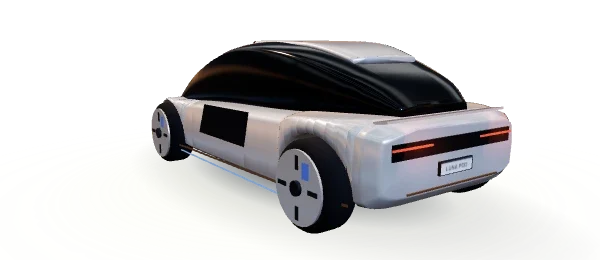
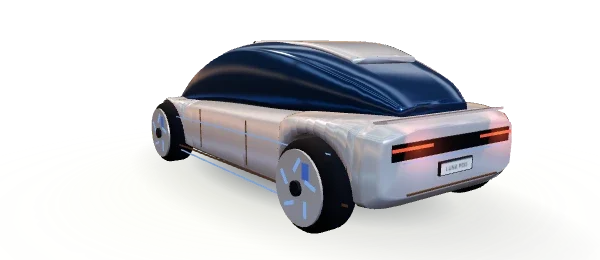
feat: 황혼 질주 스틸 웨지 · 루나 포드 다듬기 — 스틸 웨지: 비치는 유리 · 굵은 가로 빛줄과 번짐 · 아래 하늘색 빛줄 · 금속 하부 보호판 · 두툼한 각진 펜더 · 공기 구멍 휠 커버 · 짐칸 덮개 줄 · 뒤 빛 번짐, 루나 포드: 푸른 반사 유리 · 진주빛 · 옆 파란 빛 띠 · 구리 문 선 · 큰 고리 얼굴과 파란 빛 · 빛나는 홈 휠 커버 · 후미등 번짐, 캐시 ?v=38

diff --git a/web/games/embed/twilightrun/concepts.js b/web/games/embed/twilightrun/concepts.js
@@ -1,5 +1,5 @@
-import { TIRE_RADIUS } from './drive.js?v=37';
-import { bodyFinish, glassFinish } from './finishes.js?v=37';
+import { TIRE_RADIUS } from './drive.js?v=38';
+import { bodyFinish, glassFinish } from './finishes.js?v=38';
 
 // 차고에서 사는 새 차 6대. 기존 4종(매끈 · 투톤 지붕 · 칼날 LED)과 겹치지 않게 차마다 몸통 단면 · 유리 · 얼굴 조명 · 꼬리를 따로 짠다.
 // 모양은 운영자가 준 참고 사진 6장(2026-11-21)을 따라가고, 로고 · 엠블럼 · 글자는 넣지 않는다.
@@ -99,6 +99,7 @@ export function createConcepts(T, kit) {
     const brake = standard(look.brake, .39, .19);
     const rim = standard(look.rim, .24, .72);
     const accent = look.lip ? basic(look.lip) : rim;
+    const slotMat = look.slot ? (look.slotGlow ? basic(look.slot) : standard(look.slot, .3, .6)) : grille;
     const cover = look.disc ? new T.CylinderGeometry(look.coverR || .3, look.coverR || .3, .02, 28) : null;
     for (const s of [-1, 1]) for (const end of [-1, 1]) {
       const assembly = new T.Group(), rotating = new T.Group();
@@ -128,7 +129,7 @@ export function createConcepts(T, kit) {
         piece(rotating, cover, rim, s * .16, 0, 0).rotation.z = Math.PI / 2;
         for (let i = 0; i < look.spokes; i++) {
           const a = i * Math.PI * 2 / look.spokes;
-          bar(rotating, grille, s * .172, Math.cos(a) * .2, Math.sin(a) * .2, .01, .11, .035, a);
+          bar(rotating, slotMat, s * .172, Math.cos(a) * (look.slotR || .2), Math.sin(a) * (look.slotR || .2), .01, look.slotL || .11, look.slotW || .035, a + (look.slotTwist || 0));
         }
       } else if (look.y) {
         // Y 자 살 — 다리 둘이 바깥으로 벌어진다(살 사이로 큰 브레이크가 보이게)
@@ -633,20 +634,33 @@ export function createConcepts(T, kit) {
       const surface = wheelArches(main, axle, { front: 0, rear: 0, flare: 0, step: .3, lip: .02 });
       const tonneau = loft([[.7, w * .84, 1.18, 1.5, .62], [l, w * .94, 1.18, 1.26, .9]]);
       return {
-        surface, body: merge([loft(surface), tonneau]), flat: true, roofMat: 'paint', glass: '#14181d',
+        surface, body: merge([loft(surface), tonneau]), flat: true, roofMat: 'paint', glass: '#4b5968',
         cabin: loft([[-1.35, w * .9, 1.06, 1.14, .96], [-.3, w * .8, 1.16, 1.78, .58], [.75, w * .84, 1.18, 1.48, .62]]),
         roof: loft([[-.32, w * .46, 1.74, 1.8, .8], [.74, w * .52, 1.44, 1.5, .8]]),
         front: -1.0, rear: .7, look: { belt: [.52, 0], lower: '#1b1d1f', pin: 0 },
-        dress({ chassis, frontPanel, bumper, wing, flank, lamp }) {
+        dress({ chassis, frontPanel, bumper, wing, flank, lamp, paint }) {
           const black = standard('#1b1d1f', .75, .2);
-          box(frontPanel, led, 0, .975, -l - .075, w * 1.9, .022, .02);
-          glowSprite(frontPanel, '#e4f2ff', 0, .97, -l - .12, 1.6, .2);
-          box(frontPanel, black, 0, .52, -l - .05, w * 1.92, .2, .1);
+          const steel = standard('#d0d5da', .22, .95);
+          // 앞: 가로 빛줄을 굵고 밝게(빛 번짐 여럿) · 아래 두 번째 빛줄 · 각진 하부 보호판 · 프렁크 틈
+          box(frontPanel, led, 0, .975, -l - .075, w * 1.92, .03, .02);
+          for (let k = -2; k <= 2; k++) glowSprite(frontPanel, '#e4f2ff', k * w * .42, .975, -l - .12, .7, .32);
+          box(frontPanel, black, 0, .5, -l - .04, w * 1.92, .14, .1);
+          box(frontPanel, basic('#9fd8ff'), 0, .58, -l - .095, w * 1.5, .01, .012);
+          bar(frontPanel, steel, 0, .4, -l + .1, w * 1.3, .02, .5, .25);
+          box(chassis, black, 0, 1.065, -1.75, w * 1.7, .004, .012);
+          // 짐칸 덮개 줄 · 뒷문 틈 · 뒤 빛줄 번짐
+          for (let k = 0; k < 6; k++) box(chassis, black, 0, lerp(1.47, 1.29, k / 5) + .004, lerp(.85, l - .1, k / 5), w * 1.6, .004, .014);
+          box(bumper, black, 0, 1.0, l + .015, w * 1.8, .004, .01);
+          for (let k = -2; k <= 2; k++) glowSprite(bumper, '#ff3a26', k * w * .42, 1.2, l + .06, .55, .3);
+          box(chassis, basic('#9fd8ff'), 0, 1.79, -.36, w * .8, .012, .02);
           for (const s of [-1, 1]) {
             for (const zc of [-axle, axle]) {
+              // 각진 펜더 — 바깥으로 비스듬히 나온 두툼한 판
               const pts = [0, .28, .72, 1].map(t => [s * (w + .015), TIRE_RADIUS + Math.sin(Math.PI * t) * .56, zc + Math.cos(Math.PI * t) * .62]);
-              ribbon(flank[s], black, pts, pts.map(([x, y, z], i) => [x, y + (i === 0 || i === 3 ? 0 : .1), z + (i === 0 ? .1 : i === 3 ? -.1 : 0)]));
+              ribbon(flank[s], black, pts, pts.map(([x, y, z], i) => [x + s * .07, y + (i === 0 || i === 3 ? 0 : .14), z + (i === 0 ? .14 : i === 3 ? -.14 : 0)]));
             }
+            box(chassis, steel, s * w * 1.02, 1.3, -.92, .06, .03, .1);
+            box(flank[s], basic('#9fd8ff'), s * (w + .008), .45, 0, .006, .008, 2 * axle - 1.3);
             for (const z of [-.42, .45]) box(flank[s], black, s * (w + .006), .85, z, .008, .7, .01);
             box(flank[s], black, s * w * 1.0, .43, 0, .1, .05, 2.2);
             box(chassis, black, s * w * .96, 1.28, -.95, .05, .1, .14);
@@ -655,7 +669,7 @@ export function createConcepts(T, kit) {
           box(bumper, black, 0, .52, l + .03, w * 1.9, .2, .08);
           return { plateY: .82, tail: [.8, 1.2], head: [.7, .97, .05] };
         },
-        wheel: { brake: '#333', rim: '#1c1d1f', spokes: 6, disc: true, tread: true },
+        wheel: { brake: '#333', rim: '#2a2c30', spokes: 6, disc: true, tread: true, slot: '#8d949c', slotR: .17, slotL: .15, slotW: .06, slotTwist: .5, nut: '#9fd8ff' },
       };
     },
     // 9 루나 포드 — 미래형 전기 콘셉트(운영자 참고 사진): 하얀 한 덩어리 몸, 앞바퀴 위까지 내려온 큰 유리, 가운데 빛나는 고리 얼굴, 구리색 아래 테, 빛나는 휠 커버
@@ -665,34 +679,41 @@ export function createConcepts(T, kit) {
       const surface = wheelArches(main, axle, { front: .01, rear: .01, flare: .04, lip: .02 });
       const bubble = [[-1.62, w * .76, .7, .78, .9], [-1.0, w * .8, .76, 1.18, .72], [-.2, w * .8, .8, 1.46, .66], [.7, w * .76, .82, 1.44, .66], [1.5, w * .6, .84, 1.2, .72], [l - .2, w * .4, .86, .98, .8]];
       return {
-        surface, body: loft(surface, true), glass: '#121820', roofMat: 'paint', glow: '#5a8cff',
+        surface, body: loft(surface, true), glass: '#3e5f88', roofMat: 'paint', glow: '#5a8cff',
         cabin: loft(densify(bubble), true),
         roof: loft(densify([[-.15, w * .5, 1.43, 1.485, .8], [.75, w * .46, 1.41, 1.465, .8], [1.3, w * .38, 1.28, 1.34, .8]]), true),
-        front: -1.0, rear: 1.0, look: { pin: 0 }, paint: { iridescence: .3, roughness: .2 },
+        front: -1.0, rear: 1.0, look: { pin: 0 }, paint: { iridescence: .55, roughness: .16, clearcoat: 1, clearcoatRoughness: .04 },
         dress({ chassis, frontPanel, bumper, wing, flank, lamp, paint }) {
           const halo = basic('#eaf4ff');
           const copper = standard('#c08a5a', .25, .85);
           const blue = basic('#5a8cff');
-          piece(frontPanel, new T.TorusGeometry(.14, .014, 8, 40), halo, 0, .42, -l - .115);
+          piece(frontPanel, new T.TorusGeometry(.16, .018, 8, 40), halo, 0, .42, -l - .115);
+          piece(frontPanel, new T.CircleGeometry(.05, 24), blue, 0, .42, -l - .12).rotation.y = Math.PI;
+          box(frontPanel, blue, 0, .27, -l - .09, w * .9, .01, .012);
           glowSprite(frontPanel, '#cfe4ff', 0, .42, -l - .16, .55, .45);
           polyline(frontPanel, copper, [[-w * .66, .22, -l - .02], [-w * .3, .2, -l - .1], [w * .3, .2, -l - .1], [w * .66, .22, -l - .02]], .02);
           for (const s of [-1, 1]) {
             bar(frontPanel, halo, s * w * .66, .42, -l - .02, .012, .2, .012, 0, 0, s * .25);
             sideLine(flank[s], copper, s, z => at(surface, z, 1) + .012, -l + .25, .24, l - .2, .3, .022);
-            panel(flank[s], standard('#1a2230', .1, .7), [[s * (w * .965), .5, -.55], [s * (w * .965), .82, -.4], [s * (w * .965), .84, .55], [s * (w * .965), .5, .45]]);
+            // 몸 옆 파란 빛 띠 · 문 구리 선
+            sideLine(flank[s], blue, s, z => at(surface, z, 1) + .014, -l + .4, .58, l - .35, .66, .012, 16);
+            for (const z of [-.5, .5]) box(flank[s], copper, s * (at(surface, z, 1) + .01), .55, z, .006, .42, .01);
             glowSprite(chassis, '#3a6bff', s * w * .3, 1.0, -.1, .9, .35);
             for (const zc of [-axle, axle]) {
               const ring = piece(flank[s], new T.TorusGeometry(.2, .01, 6, 30), blue, s * (w + .03), TIRE_RADIUS, zc);
               ring.rotation.y = Math.PI / 2;
             }
-            box(bumper, lamp, s * w * .5, .72, l + .02, w * .42, .016, .012);
+            box(bumper, lamp, s * w * .5, .72, l + .02, w * .42, .022, .012);
+            glowSprite(bumper, '#ff3a26', s * w * .5, .72, l + .06, .6, .3);
+            piece(frontPanel, new T.TorusGeometry(.04, .008, 6, 18), blue, s * w * .62, .3, -l - .06);
           }
           box(bumper, standard('#121820', .2, .6), 0, .7, l + .004, w * 1.4, .12, .02);
           bar(wing, paint, 0, .9, l - .12, w * 1.4, .02, .14, -.15);
           box(bumper, copper, 0, .38, l + .02, w * 1.1, .015, .012);
+          box(bumper, blue, 0, .62, l + .02, w * 1.2, .008, .012);
           return { plateY: .52, tail: [.5, .72], head: [0, .42, .08] };
         },
-        wheel: { brake: '#5a8cff', rim: '#f2f2f0', spokes: 4, disc: true, lip: '#5a8cff' },
+        wheel: { brake: '#5a8cff', rim: '#f2f2f0', spokes: 5, disc: true, lip: '#5a8cff', slot: '#5a8cff', slotGlow: true, slotR: .18, slotL: .13, slotW: .03, slotTwist: .6, nut: '#c08a5a' },
       };
     },
     // 6 헥사 팽 — 라임 하이퍼카: 아주 뾰족한 코, 빛나는 가는 눈매, 앞은 낮고 뒤로 올라가는 검은 아래 몸, 큰 옆 흡기구, 꼬리 지느러미, 육각 꼬리등

diff --git a/web/games/embed/twilightrun/game.js b/web/games/embed/twilightrun/game.js
@@ -1,10 +1,10 @@
-import { advanceWreck, callRest, cars, carStats, clamp, courses, createRun, damageStage, eatFood, foods, leaveRest, MAX_HEALTH, modes, nextRest, carCondition, FUEL_FREE, fuelRate, pumpFuel, serviceCar, shopItems, useShopItem, servicePrice, services, REST_SIGN, restNames, reward, routeMode, SCORE_LIMIT, sectionIndex, step } from './drive.js?v=37';
-import { createScene } from './scene.js?v=37';
-import { impactDuration } from './impact.js?v=37';
-import { assetRoot } from './world.js?v=37';
-import { requestYield } from './traffic.js?v=37';
-import { createShowroom } from './showroom.js?v=37';
-import { dayProgress, dayTime, weatherAt, weatherNames } from './daytime.js?v=37';
+import { advanceWreck, callRest, cars, carStats, clamp, courses, createRun, damageStage, eatFood, foods, leaveRest, MAX_HEALTH, modes, nextRest, carCondition, FUEL_FREE, fuelRate, pumpFuel, serviceCar, shopItems, useShopItem, servicePrice, services, REST_SIGN, restNames, reward, routeMode, SCORE_LIMIT, sectionIndex, step } from './drive.js?v=38';
+import { createScene } from './scene.js?v=38';
+import { impactDuration } from './impact.js?v=38';
+import { assetRoot } from './world.js?v=38';
+import { requestYield } from './traffic.js?v=38';
+import { createShowroom } from './showroom.js?v=38';
+import { dayProgress, dayTime, weatherAt, weatherNames } from './daytime.js?v=38';
 
 const $ = id => document.getElementById(id);
 const stage = $('road');
@@ -220,7 +220,7 @@ setOptions('course', courses);
 setOptions('mode', modes);
 
 const carOptions = $('car-options');
-const carPicture = car => `${assetRoot}garage/${car.shape}.webp?v=37`;
+const carPicture = car => `${assetRoot}garage/${car.shape}.webp?v=38`;
 // 차 단추에 마우스를 올리면(키보드는 포커스, 터치는 누를 때 잠깐) 주행 때와 같은 3D 모델을 패널 옆에 크게 띄운다
 const carStage = $('car-stage');
 const showroom = createShowroom(carStage.querySelector('canvas'), cars,

diff --git a/web/games/embed/twilightrun/scene.js b/web/games/embed/twilightrun/scene.js
@@ -1,9 +1,9 @@
-import { clamp, damageStage as wearStage, frontWheelAngle, PANEL_BREAK, roadSlope, roadX, roadY, TIRE_RADIUS, trackLook } from './drive.js?v=37';
-import { createFallback } from './scene-fallback.js?v=37';
-import { createCarModels } from './models.js?v=37';
-import { createImpactFx, impactMotion } from './impact.js?v=37';
-import { dayProgress, dayTime, weatherAt } from './daytime.js?v=37';
-import { assetRoot, atmospheres, createWorld, glowMap, random } from './world.js?v=37';
+import { clamp, damageStage as wearStage, frontWheelAngle, PANEL_BREAK, roadSlope, roadX, roadY, TIRE_RADIUS, trackLook } from './drive.js?v=38';
+import { createFallback } from './scene-fallback.js?v=38';
+import { createCarModels } from './models.js?v=38';
+import { createImpactFx, impactMotion } from './impact.js?v=38';
+import { dayProgress, dayTime, weatherAt } from './daytime.js?v=38';
+import { assetRoot, atmospheres, createWorld, glowMap, random } from './world.js?v=38';
 
 const poses = [
   { back: 8.5, height: 2.9 },

diff --git a/web/games/embed/twilightrun/scene-fallback.js b/web/games/embed/twilightrun/scene-fallback.js
@@ -1,6 +1,6 @@
-import { ROAD_WIDTH, clamp, frontWheelAngle, roadSlope, roadX, roadY, TIRE_RADIUS, trackLook } from './drive.js?v=37';
-import { assetRoot, atmospheres } from './world.js?v=37';
-import { impactDuration, impactMotion } from './impact.js?v=37';
+import { ROAD_WIDTH, clamp, frontWheelAngle, roadSlope, roadX, roadY, TIRE_RADIUS, trackLook } from './drive.js?v=38';
+import { assetRoot, atmospheres } from './world.js?v=38';
+import { impactDuration, impactMotion } from './impact.js?v=38';
 
 const palettes = {
   coast: { sky: ['#263549', '#af655a', '#f6b079'], hills: ['#846770', '#625661', '#444651'], land: ['#495454', '#465152'], road: ['#393b42', '#3c3e45'], rail: '#8e817d', sun: '#ffdb9b' },

diff --git a/web/games/embed/twilightrun.html b/web/games/embed/twilightrun.html
@@ -5,7 +5,7 @@
   <meta name="viewport" content="width=device-width,initial-scale=1">
   <meta name="theme-color" content="#141617">
   <title>황혼 질주 · Twilight Run</title>
-  <link rel="stylesheet" href="twilightrun/style.css?v=37">
+  <link rel="stylesheet" href="twilightrun/style.css?v=38">
 </head>
 <body>
   <main class="game">
@@ -260,6 +260,6 @@
     </dialog>
   </main>
   <script defer src="twilightrun/vendor/three-r160.min.js"></script>
-  <script type="module" src="twilightrun/game.js?v=37"></script>
+  <script type="module" src="twilightrun/game.js?v=38"></script>
 </body>
 </html>

diff --git a/web/games/embed/twilightrun/models.js b/web/games/embed/twilightrun/models.js
@@ -1,6 +1,6 @@
-import { TIRE_RADIUS } from './drive.js?v=37';
-import { bodyFinish, fractureMap, glassFinish } from './finishes.js?v=37';
-import { createConcepts } from './concepts.js?v=37';
+import { TIRE_RADIUS } from './drive.js?v=38';
+import { bodyFinish, fractureMap, glassFinish } from './finishes.js?v=38';
+import { createConcepts } from './concepts.js?v=38';
 
 // Local car coordinates point toward -Z. Lofted cross sections describe the coachwork in metres.
 const profiles = {

diff --git a/web/games/embed/twilightrun/showroom.js b/web/games/embed/twilightrun/showroom.js
@@ -1,5 +1,5 @@
-import { createCarModels } from './models.js?v=37';
-import { glowMap } from './world.js?v=37';
+import { createCarModels } from './models.js?v=38';
+import { glowMap } from './world.js?v=38';
 
 // 첫 화면 · 차고에서 고른 차를 크게 보여 준다 — 주행 때와 같은 3D 모델(model(car, true))을 천천히 돌린다.
 // GPU 를 아끼려고 첫 화면이 보일 때만, 초당 30장까지만 그리고 그림자 맵 대신 바닥 빛 한 장을 쓴다.

diff --git a/web/games/embed/twilightrun/drive.js b/web/games/embed/twilightrun/drive.js
@@ -1,5 +1,5 @@
-import { advanceTraffic, LANES, sweptContact } from './traffic.js?v=37';
-import { DAY_STARTS, dayProgress, trafficBand, weatherAt } from './daytime.js?v=37';
+import { advanceTraffic, LANES, sweptContact } from './traffic.js?v=38';
+import { DAY_STARTS, dayProgress, trafficBand, weatherAt } from './daytime.js?v=38';
 
 export const ROAD_WIDTH = 14.4;
 export { LANES };

diff --git a/web/games/embed/twilightrun/world.js b/web/games/embed/twilightrun/world.js
@@ -1,4 +1,4 @@
-import { ROAD_WIDTH, roadX, roadY, sectionIndex, trackLook } from './drive.js?v=37';
+import { ROAD_WIDTH, roadX, roadY, sectionIndex, trackLook } from './drive.js?v=38';
 
 export const assetRoot = '/assets/games/twilightrun/';
 export const atmospheres = {

diff --git a/web/games/embed/twilightrun/impact.js b/web/games/embed/twilightrun/impact.js
@@ -1,4 +1,4 @@
-import { clamp, roadX, roadY } from './drive.js?v=37';
+import { clamp, roadX, roadY } from './drive.js?v=38';
 
 export const impactDuration = 1.52;
 export function impactMotion(impact, age) {
